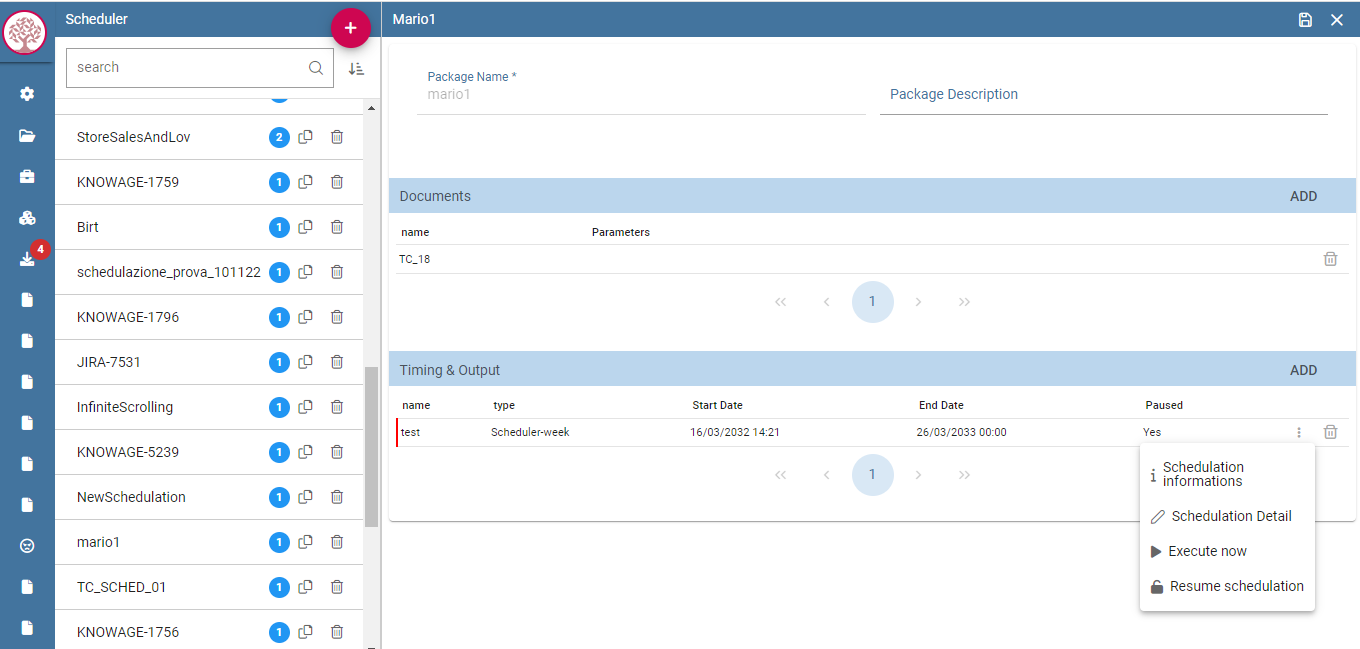
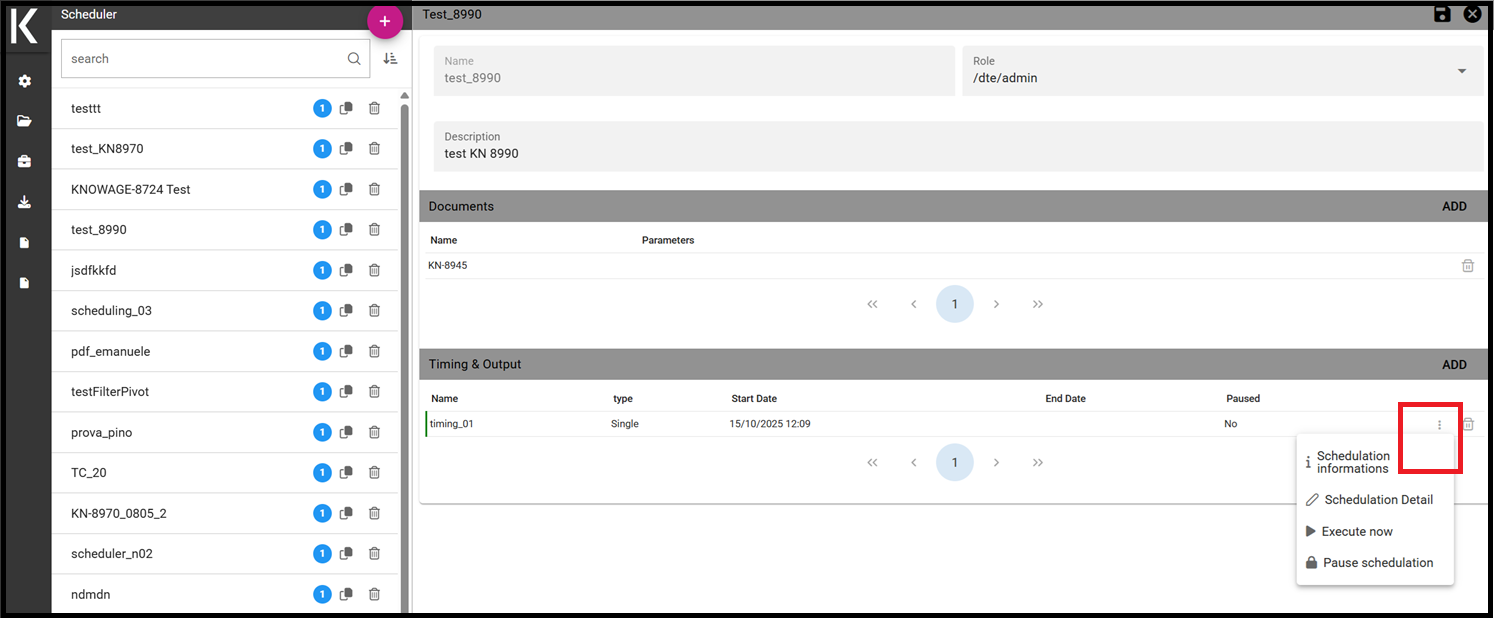
fix_all_scheduler

Changed region(s): [[0.0, 0.0, 1.0, 1.0], [0.6485, 0.0922, 0.9574, 0.1845]]

diff --git a/chapter_4/schedule.rst b/chapter_4/schedule.rst
@@ -187,29 +187,30 @@ Here you can select one of the available scheduled activities to explore details
 
 .. figure:: media/image55a_new.png
 
-    Exploring the detail of a scheduled activity in Timing & Output panel (three dots menu).
+    Details of a scheduled activity in Timing & Output panel.
 
 Here you find the following information:
 
-- **Schedulation informations**, it give some extra information about your schedulation concerning sending emails
+- **Schedulation informations**, gives some extra information about your schedulation concerning sending emails
    
-- **Schedulation detail**, it opens the scheduling configuration and let you change them.
-   
-   .. figure:: media/image57.png
-
-    Schedulation information pop up example
-    
+- **Schedulation detail**, opens the scheduling configuration and let you change them.
 - **Execute now**, by clicking it you immediately start the execution of your schedulation.
 - **Pause schedulation**, it lets you pause your schedulation.
 - **Resume schedulation**, it appears after having paused a schedulation, it enables you to resume it.
 
-In order to delete a schedulation you can use delete (recycle bin) icon, on the right side of a schedulation.
+In case, use the recycle bin icon to delete the scheduling.
 
 
 Scheduler Monitor
 ------------------------------------------------------------------------------------------------------------------------
 
-You can monitor the whole scheduling agenda by entering the **Scheduler Monitor** item from the Knowage Menu. This feature allows you to check which schedulations are active in a certain future time interval and, eventually, to be redirected to the schedulation area in order to modify the selected schedulation.
+You can monitor the whole scheduling agenda by entering the **Scheduler Monitor** item from the Knowage Menu. 
+
+.. figure:: media/scheduler_m.png
+
+    Details of a scheduled activity in Timing & Output panel.
+
+This feature allows you to check which schedulations are active in a certain future time interval and, eventually, to be redirected to the schedulation area in order to modify the selected schedulation.
   
 .. figure:: media/image59_new.png
 
